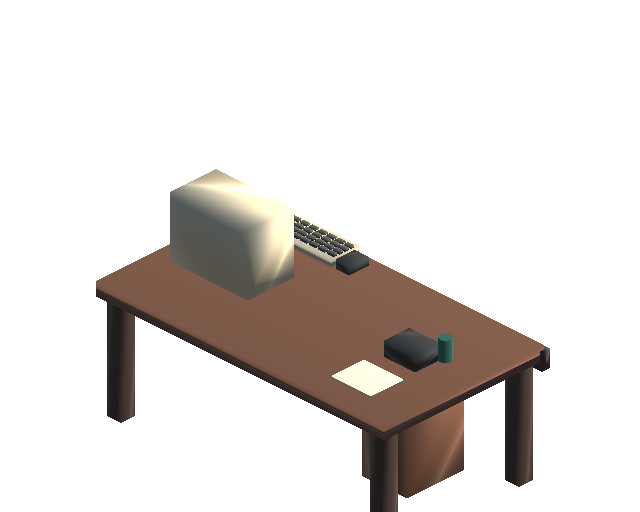
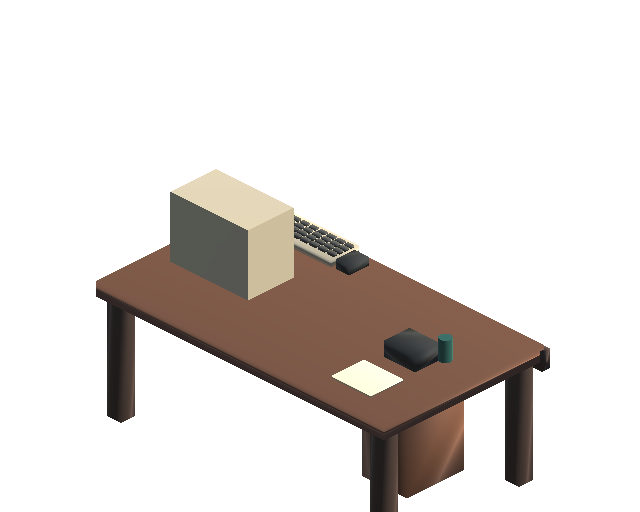
fix: align CRT and keyboard rendering with workstation tile axes

Changed region(s): [[0.2812, 0.3125, 0.4688, 0.5938]]

diff --git a/Assets/FamilyCompany/Experimental/Family3DPrototype/Editor/WorkstationTileCentreRegression.cs b/Assets/FamilyCompany/Experimental/Family3DPrototype/Editor/WorkstationTileCentreRegression.cs
@@ -14,15 +14,18 @@ namespace FamilyCompany.Experimental.Family3D.Editor
         {
             public int basis, turn;
             public float chairError, stemError, keyboardLateral, screenLateral, screenNormalError;
+            public float monitorDeskAxisError, keyboardDeskAxisError, monitorFaceNormalError;
         }
         [Serializable] private class Result
         {
             public string scope = "geometry only; gameplay and release remain separate";
             public Sample[] samples;
+            public bool passed;
         }
         public static void RunBatch()
         {
             var samples = new List<Sample>();
+            bool passed = true;
             try
             {
                 for (int basis = 0; basis < 2; basis++)
@@ -46,30 +49,70 @@ namespace FamilyCompany.Experimental.Family3D.Editor
                         Vector3 screen = desk.MonitorWorld - centre; screen.y = 0;
                         Transform panel = desk.transform.Find("Crt_Screen");
                         Mesh mesh = panel.GetComponent<MeshFilter>().sharedMesh;
-                        Vector3 meshNormal = panel.TransformDirection(Vector3.Cross(
-                            mesh.vertices[4] - mesh.vertices[0], mesh.vertices[1] - mesh.vertices[0])).normalized;
+                        Vector3 panelRight = panel.TransformDirection(mesh.vertices[1] - mesh.vertices[0]);
+                        Vector3 meshNormal = Vector3.Cross(Vector3.up, panelRight).normalized;
                         if (Vector3.Dot(meshNormal, -f) < 0) meshNormal = -meshNormal;
+                        // In the overlay's oblique mapped coordinates the Euclidean surface normal
+                        // is not the tile-forward vector. Match the actual desk-front plane instead.
+                        Vector3 expectedNormal = Vector3.Cross(Vector3.up, r).normalized;
+                        if (Vector3.Dot(expectedNormal, -f) < 0) expectedNormal = -expectedNormal;
+                        Transform top = desk.transform.Find("Desk_Top");
+                        Transform body = desk.transform.Find("Crt_Body");
+                        Transform keyboard = desk.transform.Find("Keyboard");
                         var sample = new Sample { basis=basis, turn=turn,
                             chairError=Vector3.Distance(centre, desk.ChairGroundWorld),
                             stemError=Vector3.Distance(centre, stem),
                             keyboardLateral=Vector3.Cross(key, f).magnitude,
                             screenLateral=Vector3.Cross(screen, f).magnitude,
-                            screenNormalError=Vector3.Angle(meshNormal, -f) };
+                            screenNormalError=Vector3.Angle(meshNormal, expectedNormal),
+                            monitorDeskAxisError=BoxAxisError(body, top),
+                            keyboardDeskAxisError=BoxAxisError(keyboard, top),
+                            monitorFaceNormalError=FaceNormalError(body.GetComponent<MeshFilter>().sharedMesh) };
                         samples.Add(sample);
                         if (sample.chairError > 0.0001f || sample.stemError > 0.0001f ||
                             sample.keyboardLateral > 0.0001f || sample.screenLateral > 0.0001f ||
-                            sample.screenNormalError > 0.1f)
-                            throw new InvalidOperationException(JsonUtility.ToJson(sample));
+                            sample.screenNormalError > 0.1f || sample.monitorDeskAxisError > 0.1f ||
+                            sample.keyboardDeskAxisError > 0.1f || sample.monitorFaceNormalError > 0.1f)
+                            passed = false;
                     }
                     finally { UnityEngine.Object.DestroyImmediate(root); }
                 }
-                Directory.CreateDirectory("Artifacts/WorkstationTileCentre");
-                File.WriteAllText("Artifacts/WorkstationTileCentre/geometry.json",
-                    JsonUtility.ToJson(new Result { samples=samples.ToArray() }, true));
+                string output = "Artifacts/WorkstationTileCentre";
+                string[] args = Environment.GetCommandLineArgs();
+                for (int i = 0; i + 1 < args.Length; i++)
+                    if (args[i] == "-workstationGeometryOutput") output = args[i + 1];
+                Directory.CreateDirectory(output);
+                File.WriteAllText(Path.Combine(output, "geometry.json"),
+                    JsonUtility.ToJson(new Result { samples=samples.ToArray(), passed=passed }, true));
+                if (!passed) throw new InvalidOperationException("Desk/monitor/key axes or CRT face normals failed; see geometry.json.");
                 Debug.Log("WORKSTATION_TILE_CENTRE: PASS 8 rotated physical-geometry cases");
                 EditorApplication.Exit(0);
             }
             catch (Exception error) { Debug.LogException(error); EditorApplication.Exit(1); }
+        }
+
+        private static float BoxAxisError(Transform part, Transform desk)
+        {
+            Vector3[] p = part.GetComponent<MeshFilter>().sharedMesh.vertices;
+            Vector3[] d = desk.GetComponent<MeshFilter>().sharedMesh.vertices;
+            return Mathf.Max(
+                Vector3.Angle(part.TransformVector(p[1] - p[0]), desk.TransformVector(d[1] - d[0])),
+                Vector3.Angle(part.TransformVector(p[2] - p[1]), desk.TransformVector(d[2] - d[1])));
+        }
+
+        private static float FaceNormalError(Mesh mesh)
+        {
+            Vector3[] vertices = mesh.vertices, normals = mesh.normals;
+            int[] triangles = mesh.triangles;
+            float maximum = 0f;
+            for (int t = 0; t < triangles.Length; t += 3)
+            {
+                Vector3 face = Vector3.Cross(vertices[triangles[t + 1]] - vertices[triangles[t]],
+                    vertices[triangles[t + 2]] - vertices[triangles[t]]).normalized;
+                for (int k = 0; k < 3; k++)
+                    maximum = Mathf.Max(maximum, Vector3.Angle(face, normals[triangles[t + k]]));
+            }
+            return maximum;
         }
     }
 }

diff --git a/Assets/FamilyCompany/Runtime/Character3D/Family3DWorkstation.cs b/Assets/FamilyCompany/Runtime/Character3D/Family3DWorkstation.cs
@@ -45,6 +45,8 @@ namespace FamilyCompany.Runtime.Character3D
         public float CushionWorldY { get; private set; }
         public Vector3 KeyboardWorld { get; private set; }
         public Vector3 MonitorWorld { get; private set; }
+        // Semantic screen-facing tile direction mapped into the overlay. In an oblique
+        // presentation this is not the Euclidean lighting normal of the screen mesh.
         public Vector3 MonitorScreenOutwardWorld { get; private set; }
         public Vector3 WorkSurfaceWorld { get; private set; }
         public Vector3 DeskTopCenterWorld { get; private set; }
@@ -476,8 +478,8 @@ namespace FamilyCompany.Runtime.Character3D
             // screen, keyboard and chair occupy one real perpendicular centreline.
             float gridSkew = Vector3.Dot(gridRightLocalUnit, gridForwardLocalUnit);
             // The occupied chair cell and the desk cell directly behind it share grid x=0.
-            // Keep the screen and keyboard on that tile axis. Their own rectangular parts
-            // use a perpendicular right axis; a projected desk basis is not a monitor normal.
+            // Keep the screen and keyboard on that tile axis. Their visual parts must use
+            // the same mapped basis as the tabletop, not a separately orthogonalized axis.
             if (centerChairOnSeatCell) { monitorRight = 0f; gridSkew = 0f; }
             float keyboardRight =
                 monitorRight + gridSkew * (screenForward - keyboardForward);
@@ -496,7 +498,7 @@ namespace FamilyCompany.Runtime.Character3D
             MonitorWorld = monitor.position;
             for (var line = 0; line < 4; line++)
                 AddGridBox("Crt_TextLine_" + line,
-                    OperatorLocal(monitorRight + (-0.04f + (line % 2) * 0.025f) * h,
+                    GridLocal(monitorRight + (-0.04f + (line % 2) * 0.025f) * h,
                         (0.675f - line * 0.03f) * h,
                         monitorForward - 0.105f * h),
                     (0.125f + (line % 2) * 0.045f) * h,
@@ -518,7 +520,7 @@ namespace FamilyCompany.Runtime.Character3D
             for (var row = 0; row < 4; row++)
             for (var column = 0; column < 9; column++)
                 AddGridBox("Key_" + row + "_" + column,
-                OperatorLocal(keyboardRight + (-0.156f + column * 0.039f) * h,
+                GridLocal(keyboardRight + (-0.156f + column * 0.039f) * h,
                         (0.512f + row * 0.0015f) * h,
                         keyboardForward + (-0.037f + row * 0.025f) * h),
                     0.028f * h,
@@ -685,13 +687,6 @@ namespace FamilyCompany.Runtime.Character3D
                    gridForwardLocalUnit * forward;
         }
 
-        private Vector3 OperatorLocal(float right, float y, float forward)
-        {
-            Vector3 operatorRight = centerChairOnSeatCell
-                ? Vector3.Cross(Vector3.up, gridForwardLocalUnit).normalized : gridRightLocalUnit;
-            return operatorRight * right + Vector3.up * y + gridForwardLocalUnit * forward;
-        }
-
         private Material CreateMaterial(string materialName, Color colour, float metallic, float smoothness)
         {
             Shader shader = Shader.Find("Standard");
@@ -749,11 +744,10 @@ namespace FamilyCompany.Runtime.Character3D
             value.transform.localScale = Vector3.one;
             value.layer = layer;
 
-            bool operatorPart = centerChairOnSeatCell &&
-                (objectName.StartsWith("Crt_", StringComparison.Ordinal) ||
-                 objectName.StartsWith("Key_", StringComparison.Ordinal) || objectName == "Keyboard");
-            Vector3 right = (operatorPart
-                ? Vector3.Cross(Vector3.up, gridForwardLocalUnit).normalized : gridRightLocalUnit) * (width * 0.5f);
+            // The physical authoring basis is orthogonal; the runtime overlay maps the whole
+            // workstation onto the tile camera. Applying a different basis only to the CRT
+            // made its edges diverge from the desk by 19.47 degrees in the mapped world.
+            Vector3 right = gridRightLocalUnit * (width * 0.5f);
             Vector3 forward = gridForwardLocalUnit * (depth * 0.5f);
             Vector3 up = Vector3.up * (height * 0.5f);
             var mesh = new Mesh { name = objectName + "_MappedGridMesh" };
@@ -785,6 +779,20 @@ namespace FamilyCompany.Runtime.Character3D
                     triangles[triangle + 1] = triangles[triangle + 2];
                     triangles[triangle + 2] = swap;
                 }
+            if (objectName.StartsWith("Crt_", StringComparison.Ordinal))
+            {
+                // A rigid CRT casing has planar faces. Sharing eight corner normals smoothed
+                // across every face, making straight panels look melted/leaning under light.
+                // Split only CRT face vertices; dimensions, materials and other furniture stay.
+                Vector3[] corners = mesh.vertices;
+                var faceVertices = new Vector3[triangles.Length];
+                for (int index = 0; index < triangles.Length; index++)
+                {
+                    faceVertices[index] = corners[triangles[index]];
+                    triangles[index] = index;
+                }
+                mesh.vertices = faceVertices;
+            }
             mesh.triangles = triangles;
             mesh.RecalculateNormals();
             mesh.RecalculateBounds();

diff --git a/Docs/MONITOR_ALIGNMENT_PATCH.md b/Docs/MONITOR_ALIGNMENT_PATCH.md
@@ -1,0 +1,44 @@
+# CRT·키보드 책상 정렬 패치
+
+2026-09-06 요청: 네 방향 CRT가 책상에 비해 휘고 기울어 보이는 부분만 고친다.
+사용자는 완료 후 기존 메인 실행파일을 직접 열어 업데이트를 확인할 예정이다.
+수정된 네 방향 sheet를 표시한 뒤 사용자 "1" / "이 모습으로 배포" 승인을 받았다.
+
+## 수정 경계
+
+`Family3DWorkstation`은 두 표현 경로를 공유한다. sprite authoring은 orthogonal X/Z와 30도 카메라를
+쓰고, 실제 캐릭터와 함께 그리는 runtime은 이미 승인된 45도 overlay 카메라에 tile 좌표를 투영한다.
+후자의 desk axes는 mapped coordinates다. 이때 CRT/keyboard만 폭 축을 별도로 직교화하면 나머지
+책상과 19.4712도 달라진다. 독립적으로 계산한 직각 normal과 타일-facing vector도 같은 개념이 아니다.
+
+이번 수정은 CRT/keyboard/details에만 따로 적용하던 축 예외를 제거한다. 책상과 같은 투영을 쓰되
+canonical 물리 authoring의 90도 회전은 유지한다. 모델 치수/중심/높이/재질/카메라는 바꾸지 않는다.
+공유된 8 corner normal로 CRT 면 전체를 둥글게 만들던 shading은 CRT 면 정점을 분리해서 수정한다.
+의자와 다른 가구의 shading은 그대로다. 새 3D 모델이나 유료 생성은 없다.
+
+보존: 책상·의자 3칸 footprint, 4방향 rotation/preview/점유, 의자 타일 중앙, 캐릭터/양팔/다리/착석,
+손목 목표, 보행/충돌/금액/세이브, 패치 worker. 상점의 네 desk PNG는 같은 수정으로 rebake하며
+chair PNG 네 장과 importer 설정은 바꾸지 않는다.
+
+## 독립 검증
+
+- `WorkstationTileCentreRegression.RunBatch`: orthogonal authoring + mapped overlay 각각 네 방향.
+  CRT/keyboard actual mesh edges vs actual desk edges, screen front vs desk-front plane, CRT triangle
+  lighting normals, chair/stem tile centre, keyboard/screen centreline. 위치 gate 0.0001, 각도 gate 0.1도.
+  수정 전 axis 19.4712도 / CRT normal 77.0653도 FAIL; 수정 후 ≤0.028도 / 0도 PASS.
+- 원본 red/green: `Artifacts/MonitorAlignment20260906/{red,green}/geometry.json`.
+- FastQA actual render와 264 typing/seat poses PASS, 근거 `Artifacts/MonitorAlignment20260906/fast-chair`.
+  pose injection 검사이며 실제 normal 출근/보행 검증과 혼동하지 않는다.
+- 사용자의 수정 외형 승인, exact clean Release, 실제 normal 네 가족 gate 이후만 공개한다.
+  과거 native purchase 입력 증거를 새 클릭으로 다시 명명하지 않는다.
+
+## 패치 확인 계약
+
+고정 메인은 `%USERPROFILE%\Downloads\FamilyCompany_Playtest\FamilyCompany.exe` 그대로다.
+소스 commit/push만으로 배포됐다고 하지 않는다. 검증된 새 Release를 이전 manifest 기반 delta로 공개한다.
+이전 `.2`의 재사용 asset은 새 manifest가 참조하므로 임의 삭제하지 않는다. 해당 최초 메인은 패치 진입점이며
+이전 게임으로 우회하는 fallback이 아니다. 저장은 별도 보존한다.
+
+사용자가 직접 수신 화면을 확인할 수 있도록 **사용자의 AppData snapshot/current pointer를 미리
+업데이트하지 않는다**. 독립 patch 시험은 별도 QA 설치 root에서 수행하고 실제 production 서버/바이트
+수신 여부와 Unity 재시작 시험 여부를 구분한다. 최종 공개 version·SHA·수신량은 PROJECT_STATE에 기록한다.

diff --git a/Docs/PROJECT_STATE.md b/Docs/PROJECT_STATE.md
@@ -2,7 +2,30 @@
 
 Last updated: 2026-09-06. This file contains current handoff state only. Superseded Father experiments are not current inputs.
 
-## 2026-09-06 latest: approved public Release v2, fixed main installed, real GitHub boot passed
+## 2026-09-06 latest work: monitor/table alignment correction, next patch pending
+
+User reported that the CRT looks tilted relative to the desk and requested only that correction,
+then will personally start the existing main EXE to observe the patch. Current published version is
+still `.2` below; no new patch is public yet. Keep the fixed Downloads EXE and user's v2 AppData cache
+unchanged so their next launch performs the real update. Do not consume that update in the user's store.
+
+- Root cause reproduced: CRT/key mesh width was independently orthogonalized inside the runtime's
+  mapped overlay, diverging from the tabletop by **19.4712 degrees**. Shared corner normals also smoothed
+  the rigid CRT faces (face-normal error 77.0653 degrees), giving a bent/rounded appearance.
+- Only `Family3DWorkstation` visual geometry changed: use the tabletop's same mapped axes for CRT,
+  keyboard and their details; split CRT face normals. No camera, actor, chair, footprint, sockets,
+  dimensions, materials, collision, navigation, money, save or patch-worker changes.
+- Independent geometry red→green across orthogonal authoring + actual oblique overlay ×4 rotations:
+  alignment error max 0.028 degrees (unchanged 0.1 gate), CRT face-normal error 0, chair/stem shift 0.
+  Actual FastQA four-direction/typing 264 poses PASS, penetrations 0; user-visible review sheet produced.
+  Scripts-only build 23.063s. Four desk preview PNGs rebaked; four chair PNG hashes unchanged.
+- User approved the displayed corrected sheet with "1" / "이 모습으로 배포". No character pose/model approval
+  is invented; existing approved body/seat look remains unchanged and this approval covers the shown CRT fix.
+- Remaining: clean exact-identity Release and normal gameplay
+  gates, GitHub delta publication, independent update verification without touching the user's cache.
+  [Scope and projection contract](MONITOR_ALIGNMENT_PATCH.md). No new runtime build is approved by this note.
+
+## 2026-09-06 published baseline: approved Release v2, fixed main installed, real GitHub boot passed
 
 **Current delivery is complete:** [fc-win-20260906.2](https://github.com/zzangzzangman2/company/releases/tag/fc-win-20260906.2),
 source **ee48a72c8e9979a605a64c59820af8d23fdbcf4c**, sequence 2, exact Unity 6000.3.21f1,

diff --git a/Docs/DECISIONS.md b/Docs/DECISIONS.md
@@ -1,5 +1,17 @@
 # DECISIONS
 
+## 2026-09-06 / 모니터·키보드와 책상 축 불일치만 수정
+
+- 사용자가 CRT의 기울어 보이는 자세를 지적했다. 실제 overlay에서 CRT/key에만 별도 직각 축을 적용한
+  코드가 책상 축 대비 19.4712도 불일치를 만들었다. CRT 면의 공유 corner normal도 표면을 둥글게 보이게 했다.
+- 모든 책상 위 직사각형 부품은 책상과 같은 투영 기저를 쓴다. physical authoring의 직각 기저와 현재
+  runtime overlay의 mapped coordinates를 혼동하지 않는다. 배우용 카메라/몸체를 이 문제 때문에 바꾸지 않는다.
+- CRT 면 normal만 분리하고 dimensions/material/중심/높이는 유지한다. 키보드 상세 키와 화면 글줄도 같은
+  기저로 배치한다. 의미 좌석/손목 목표/가구 footprint/의자/보행/세이브는 그대로다.
+- source push와 게임 patch 공개를 구분한다. 사용자가 직접 업데이트를 보겠다고 했으므로 기존 고정 메인과
+  사용자의 설치 cache는 선제 교체/업데이트하지 않는다. 사용자가 수정 sheet를 보고 "1" / "이 모습으로 배포"로
+  승인했다. 공개 이전 독립 Release 검증은 그대로 필요하다.
+
 ## 2026-09-06 / 승인 릴리스 공개와 고정 메인 실제 검증 완료
 
 - `fc-win-20260906.2` / ee48a72c 비 Development Release를 사용자 승인과 독립 receipt로 공개했다.

diff --git a/Docs/FAMILY_3D_CHARACTER_STANDARD.md b/Docs/FAMILY_3D_CHARACTER_STANDARD.md
@@ -239,6 +239,13 @@ sky probe는 캐릭터 밝기에 영향이 없다. 밝기 조정 수단은 `_Col
 
 ## 8. 착석·워크스테이션 계약 (h = WalkActor.StandingHeight)
 
+2026-09-06 모니터 정렬 수정: CRT/키보드는 의자 타일에서 이어지는 중심선을 유지하면서, 모서리는 반드시
+책상 상판과 같은 투영 축을 사용한다. runtime overlay에만 존재하는 비직교 mapped basis를 CRT만 별도로
+직교화하면 책상과 19.47도 틀어진다. `MonitorScreenOutwardWorld`는 의미 타일-facing의 mapped 방향이지
+해당 좌표계의 Euclidean surface normal이 아니다. 실제 메시 면의 법선은 책상 전면의 법선과 대조한다.
+의자 중심/배우 yaw/양손 목표/스케일은 바꾸지 않는다. 자세 수치만으로 CRT와 책상 정렬 PASS를 대체하지
+않으며, 네 방향 메시 모서리 및 CRT 면 normal을 별도 검증한다. physical sprite authoring은 기존 직각 기저다.
+
 2026-09-06 사용자 수정: production 의자 지면 중심은 반드시 `seat.Cell` 타일 중앙이다.
 키보드 기준으로 의자를 이동하던 구형 `0.28h` socket 보정은 production에서 폐기한다.
 의자 부품/크기와 배우 스케일은 유지하되 화면·키보드를 좌석 타일의 책상 방향 축에 정렬한다.

diff --git a/Docs/ASSET_MANIFEST.md b/Docs/ASSET_MANIFEST.md
@@ -3,6 +3,12 @@
 This manifest lists the production Player V8 and Father V19 packages first, followed by current
 family inputs and canonical production assets. Retired iterations are not reusable sources.
 
+2026-09-06 CRT alignment correction: the four `OfficeBuildFurniture/desk_with_pc_*.png` previews were
+rebaked from the same procedural workstation after correcting CRT face normals and its runtime
+desk-axis mapping. No generated model/texture, colour, dimension or source package was replaced.
+All four chair PNG hashes and all importer metadata remain unchanged. Runtime acceptance/publication
+is separate; see `MONITOR_ALIGNMENT_PATCH.md` and the latest PROJECT_STATE entry.
+
 2026-09-06 workstation preview rebake: `OfficeBuildFurniture/desk_with_pc_{se,sw,nw,ne}.png`
 uses the same V31 original chair/desk source with chair ground fixed at the semantic tile centre.
 Source: `Family3DWorkstationSpriteAuthoring.BakeBatch`, Unity 6000.3.21f1, local procedural render;
